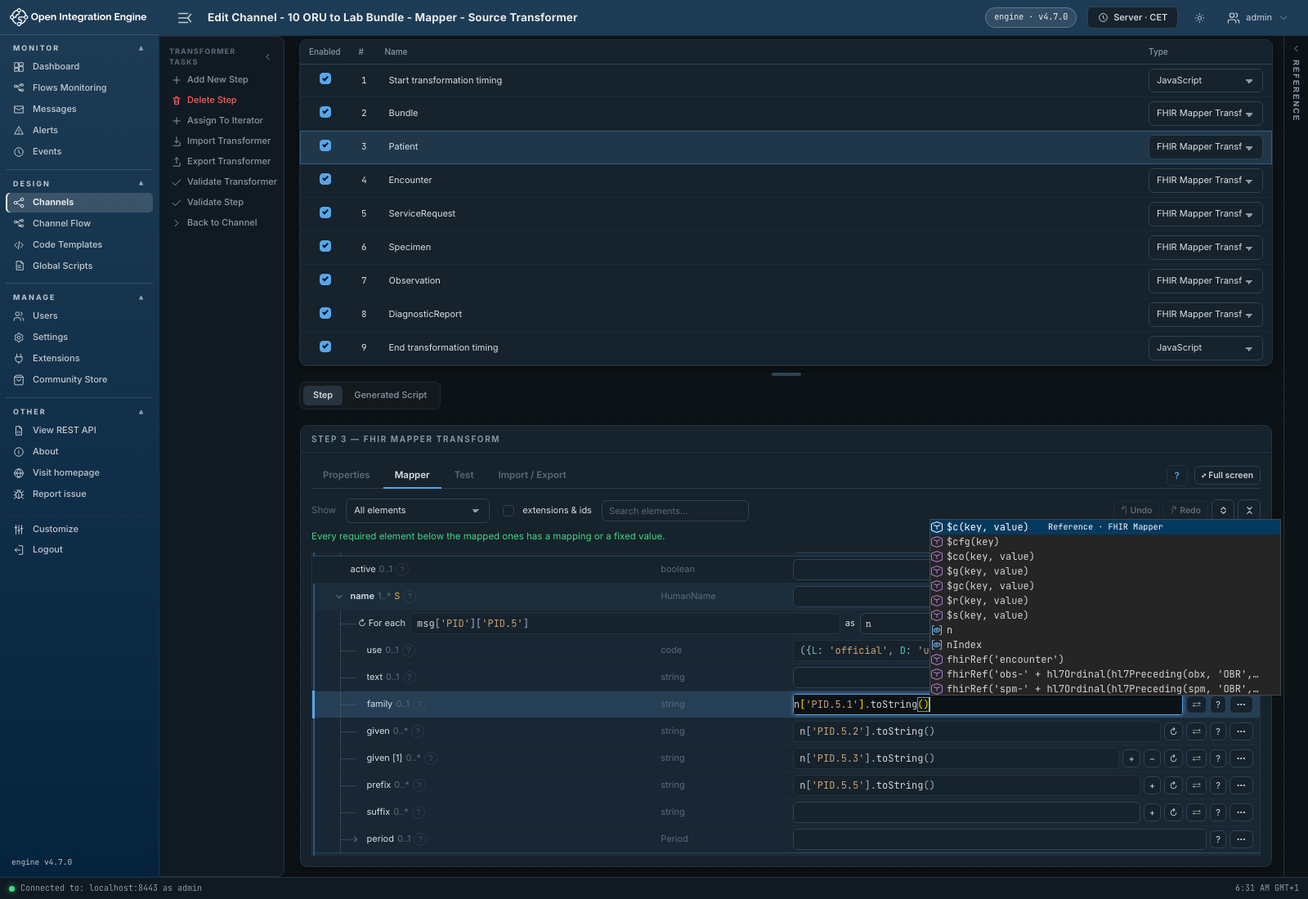
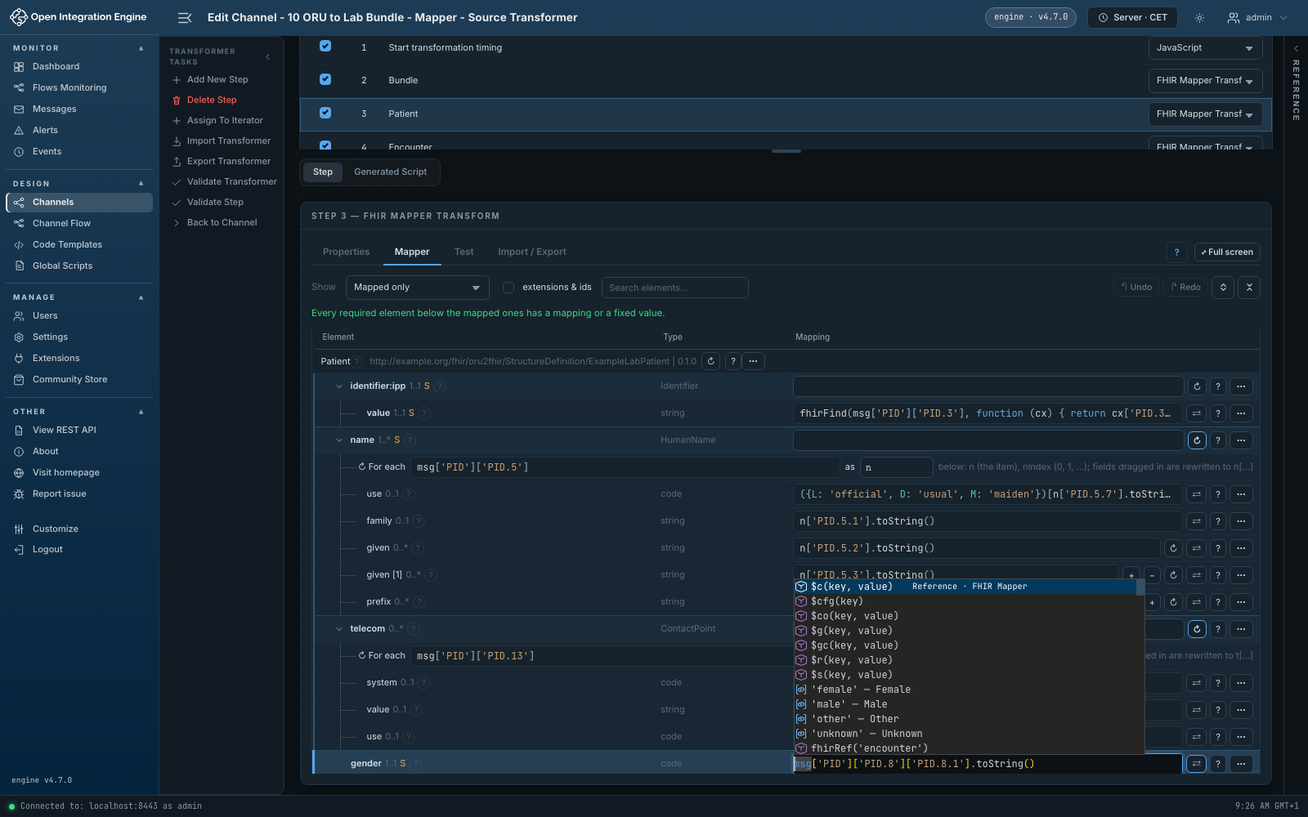
Make FML editor responsive and automate documentation screenshots

Changed region(s): [[0.0, 0.0, 1.0, 0.992], [0.0, 0.93, 0.1562, 0.992], [0.5, 0.527, 0.5312, 0.558]]

diff --git a/webadmin/web/plugin.js b/webadmin/web/plugin.js
@@ -1,4 +1,4 @@
-// OIE FHIR Mapper 0.6.0 · MPL-2.0 · generated from webadmin/src by build.mjs: do not edit
+// OIE FHIR Mapper 0.3.0 · MPL-2.0 · generated from webadmin/src by build.mjs: do not edit
 
 // src/i18n/locales/en.js
 var en_default = {
@@ -1883,7 +1883,7 @@ var editor_default = `/* SPDX-License-Identifier: MPL-2.0
 var mapper_transform_default = '/* SPDX-License-Identifier: MPL-2.0 */\n\n.fhir-mapper-transform { container-type: inline-size; min-width: 0; }\n.fhir-mapper-transform .mapper-settings { display: grid; grid-template-columns: repeat(2, minmax(0, 1fr)); gap: 12px 20px; align-items: start; }\n.fhir-mapper-transform .mapper-settings > *, .fhir-mapper-transform .field { min-width: 0; }\n.fhir-mapper-transform .mapper-settings .field { margin-bottom: 0; }\n.fhir-mapper-transform .mapper-wide { grid-column: 1 / -1; }\n.fhir-mapper-transform .mapper-actions { display: flex; flex-wrap: wrap; align-items: center; gap: 6px; }\n.fhir-mapper-transform .mapper-actions input[type=text] { flex: 1 1 240px; min-width: 0; width: auto; }\n.fhir-mapper-transform .mapper-actions select { flex: none; width: auto; }\n.fhir-mapper-transform .mapper-actions button { flex: none; white-space: nowrap; }\n.fhir-mapper-transform .mapper-checks { display: flex; flex-wrap: wrap; gap: 10px 20px; }\n.fhir-mapper-transform .check { white-space: nowrap; }\n.fhir-mapper-transform .mapper-toolbar { display: flex; flex-wrap: wrap; align-items: center; gap: 8px 12px; margin-bottom: 8px; }\n.fhir-mapper-transform .mapper-toolbar select { width: auto; max-width: 100%; }\n.fhir-mapper-transform .mapper-toolbar .hint { flex: 1 1 280px; }\n.fhir-mapper-transform .mapper-toolbar-right { display: inline-flex; align-items: center; gap: 4px; margin-left: auto; }\n.fhir-mapper-transform .mapper-icon-btn { display: inline-flex; align-items: center; justify-content: center; width: 28px; height: 28px; min-height: 28px; padding: 0; border-radius: 6px; }\n.fhir-mapper-transform .mapper-expression { display: inline-flex; width: 100%; min-width: 0; }\n.fhir-mapper-transform .mapper-functions { position: fixed; inset: auto; margin: 0; padding: 4px; border: 1px solid #94a3b8; border-radius: 6px; background: var(--bg, white); color: var(--text, #1e293b); box-shadow: 0 4px 16px #0003; overflow: auto; box-sizing: border-box; }\n.fhir-mapper-transform .mapper-functions [role=option] { padding: 6px 8px; cursor: pointer; border-radius: 4px; font-size: 12px; white-space: normal; }\n.fhir-mapper-transform .mapper-functions [aria-selected=true] { background: color-mix(in srgb, var(--accent, #2563eb) 18%, var(--bg2, white)); color: var(--text, #1e293b); }\n.fhir-mapper-transform .mapper-functions code { display: block; overflow-wrap: anywhere; }\n.fhir-mapper-transform table.mapper-tree td { padding: 3px 8px; }\n.fhir-mapper-transform .mapper-tree input:not([type=checkbox]), .fhir-mapper-transform .mapper-tree select { box-sizing: border-box; height: 26px; min-height: 26px; padding: 2px 6px; line-height: 20px; }\n.fhir-mapper-transform .mapper-tree .mapper-expression { padding: 0; min-height: 0; vertical-align: middle; }\n.fhir-mapper-transform .mapper-tree .btn { height: 22px; min-height: 22px; line-height: 18px; font-size: 11px; }\n.fhir-mapper-transform .mapper-tree .mapper-toggle { display: inline-flex; align-items: center; justify-content: center; flex: none; width: 20px; height: 20px; min-height: 0; padding: 0; margin: 0; border: 0; border-radius: 4px; background: transparent; color: var(--text-faint, #64748b); cursor: pointer; }\n.fhir-mapper-transform .mapper-tree .mapper-toggle:hover, .fhir-mapper-transform .mapper-tree .mapper-toggle:focus-visible { background: color-mix(in srgb, var(--accent, #2563eb) 14%, transparent); color: var(--text, #1e293b); }\n.fhir-mapper-transform .mapper-tree .mapper-toggle svg { transition: transform 0.12s ease; }\n.fhir-mapper-transform .mapper-tree .mapper-toggle[aria-expanded="true"] svg { transform: rotate(90deg); }\n.fhir-mapper-transform .mapper-help { display: inline-flex; align-items: center; justify-content: center; box-sizing: border-box; flex: 0 0 16px; width: 16px; height: 16px; min-height: 0; padding: 0; margin: 0; border: 1px solid color-mix(in srgb, currentColor 40%, transparent); border-radius: 50%; background: transparent; color: var(--text-faint, #64748b); font-size: 10px; line-height: 1; text-decoration: none; opacity: 0.65; cursor: pointer; }\n.fhir-mapper-transform .mapper-help:hover, .fhir-mapper-transform .mapper-help:focus-visible { opacity: 1; color: var(--accent, #2563eb); border-color: currentColor; background: transparent; }\n.fhir-mapper-transform .mapper-help:focus-visible { outline: 2px solid var(--accent, #2563eb); outline-offset: 2px; }\n.fhir-mapper-transform .mapper-tree tbody > tr > td:first-child { position: relative; border-left: 2px solid transparent; }\n.fhir-mapper-transform .mapper-tree .mapper-branch-open > tr > td { background: color-mix(in srgb, var(--accent, #2563eb) 4%, var(--bg2, white)); }\n.fhir-mapper-transform .mapper-tree .mapper-branch-open > tr > td:first-child { border-left-color: color-mix(in srgb, var(--accent, #2563eb) 40%, transparent); }\n.fhir-mapper-transform .mapper-tree .mapper-branch-open > tr:first-child > td { border-top: 1px solid color-mix(in srgb, var(--accent, #2563eb) 25%, transparent); background: color-mix(in srgb, var(--accent, #2563eb) 8%, var(--bg2, white)); }\n.fhir-mapper-transform .mapper-tree .mapper-branch-open > tr:last-child > td { border-bottom: 1px solid color-mix(in srgb, var(--accent, #2563eb) 25%, transparent); }\n.fhir-mapper-transform .mapper-node-open .mapper-node-label { font-weight: 600; }\n.fhir-mapper-transform .mapper-tree tr.mapper-node-disabled > td { opacity: 0.55; }\n.fhir-mapper-transform .mapper-tree tr.mapper-node-disabled .mapper-node-label,\n.fhir-mapper-transform .mapper-tree tr.mapper-node-disabled .mapper-expression-view { text-decoration: line-through; }\n.fhir-mapper-transform .mapper-tree tbody > tr:hover > td,\n.fhir-mapper-transform .mapper-tree .mapper-branch-open > tr:hover > td,\n.fhir-mapper-transform .mapper-tree tr:focus-within > td,\n.fhir-mapper-transform .mapper-tree .mapper-branch-open tr:focus-within > td { background: color-mix(in srgb, var(--accent, #2563eb) 14%, var(--bg2, white)); }\n.fhir-mapper-transform .mapper-tree tbody > tr.mapper-node-selected > td,\n.fhir-mapper-transform .mapper-tree .mapper-branch-open > tr.mapper-node-selected > td { background: color-mix(in srgb, var(--accent, #2563eb) 22%, var(--bg2, white)); }\n.fhir-mapper-transform .mapper-tree tbody > tr.mapper-node-selected > td:first-child,\n.fhir-mapper-transform .mapper-tree .mapper-branch-open > tr.mapper-node-selected > td:first-child { border-left: 3px solid var(--accent, #2563eb); }\n.fhir-mapper-transform .mapper-tree-guides { position: absolute; inset: 0; pointer-events: none; overflow: hidden; }\n.fhir-mapper-transform .mapper-tree-guides i { position: absolute; top: -1px; bottom: -1px; border-left: 1px solid color-mix(in srgb, var(--text-faint, #64748b) 45%, transparent); }\n.fhir-mapper-transform .mapper-tree-guides b { position: absolute; top: 50%; width: 20px; border-top: 1px solid color-mix(in srgb, var(--text-faint, #64748b) 45%, transparent); }\n.fhir-mapper-transform .bundle-routing { padding: 14px; border: 1px solid color-mix(in srgb, var(--accent, #2563eb) 40%, var(--line, #cbd5e1)); border-radius: 8px; background: color-mix(in srgb, var(--accent, #2563eb) 7%, var(--bg2, #fff)); }\n.fhir-mapper-transform .bundle-routing-title { margin-bottom: 4px; font-weight: 600; }\n.fhir-mapper-transform .bundle-target { margin-top: 10px; padding: 12px; border: 1px solid color-mix(in srgb, var(--accent, #2563eb) 30%, var(--line, #cbd5e1)); border-radius: 6px; background: var(--bg2, #fff); }\n.fhir-mapper-transform .bundle-choice { display: flex; align-items: center; gap: 8px; margin-bottom: 4px; text-transform: none; letter-spacing: normal; font-weight: 600; }\n.fhir-mapper-transform .bundle-choice input[type=checkbox] { width: 16px; height: 16px; margin: 0; flex: none; }\n.fhir-mapper-transform .bundle-request { display: grid; grid-template-columns: 110px minmax(0, 1fr); gap: 10px; margin-top: 10px; }\n.fhir-mapper-transform .bundle-target .field { margin-top: 8px; }\n.fhir-mapper-transform .mapper-tabs { display: flex; gap: 2px; margin-bottom: 12px; border-bottom: 1px solid color-mix(in srgb, var(--text-faint, #64748b) 35%, transparent); }\n.fhir-mapper-transform .mapper-tabs [role=tab] { display: inline-flex; align-items: center; gap: 6px; padding: 6px 14px; margin-bottom: -1px; border: 0; border-bottom: 2px solid transparent; background: none; color: var(--text-faint, #64748b); font: inherit; font-weight: 600; cursor: pointer; }\n.fhir-mapper-transform .mapper-tabs [role=tab]:hover { color: var(--text, #1e293b); }\n.fhir-mapper-transform .mapper-tabs [role=tab][aria-selected=true] { color: var(--text, #1e293b); border-bottom-color: var(--accent, #2563eb); }\n.fhir-mapper-transform .mapper-tabs [role=tab]:focus-visible { outline: 2px solid var(--accent, #2563eb); outline-offset: -2px; }\n.fhir-mapper-transform .mapper-tab-badge { min-width: 16px; padding: 0 5px; border-radius: 8px; background: #b91c1c; color: white; font-size: 11px; line-height: 16px; text-align: center; }\n.fhir-mapper-transform .mapper-tab-panel > details:first-child, .fhir-mapper-transform .mapper-tab-panel > .mapper-settings + details { margin-top: 14px; }\n.fhir-mapper-transform.mapper-layout { display: flex; flex-direction: column; height: 100%; min-height: 0; box-sizing: border-box; overflow: hidden; }\n.fhir-mapper-transform.mapper-layout.mapper-fullscreen { overflow: hidden; }\n.fhir-mapper-transform.mapper-layout > :not([role=tabpanel]) { flex: none; }\n.fhir-mapper-transform.mapper-layout > [role=tabpanel] { flex: 1; min-height: 0; overflow: auto; overscroll-behavior: contain; }\n.fhir-mapper-transform.mapper-testing-layout > [role=tabpanel],\n.fhir-mapper-transform.mapper-mapping-layout > [role=tabpanel] { overflow: hidden; }\n.fhir-mapper-transform .mapper-panel { display: flex; flex-direction: column; height: 100%; min-height: 0; }\n.fhir-mapper-transform .mapper-panel > :not(.mapper-workspace) { flex: none; }\n.fhir-mapper-transform .mapper-panel > .mapper-workspace { flex: 1; min-height: 0; overflow: auto; overscroll-behavior: contain; margin-top: 8px; }\n.fhir-mapper-transform .mapper-status { margin-bottom: 4px; }\n.fhir-mapper-transform .mapper-test { display: flex; flex-direction: column; gap: 10px; height: 100%; min-height: 0; }\n.fhir-mapper-transform .mapper-test-actions { display: flex; align-items: center; gap: 8px; flex: none; border-bottom: 1px solid var(--line, #cbd5e1); }\n.fhir-mapper-transform .mapper-test-actions > button { flex: none; margin-bottom: 6px; }\n.fhir-mapper-transform .mapper-test-tabs { flex: 1; min-width: 0; flex-wrap: wrap; margin-bottom: -1px; border-bottom: 0; }\n.fhir-mapper-transform .mapper-test-tabs [role=tab] { padding: 8px 10px; }\n.fhir-mapper-transform .mapper-test-tabs [role=tab].mapper-error { color: var(--err, #b91c1c); }\n.fhir-mapper-transform .mapper-test-tabs [role=tab].mapper-issue-warning { color: var(--warn, #b45309); }\n.fhir-mapper-transform .mapper-test-status { flex: none; max-height: 25%; overflow: auto; }\n.fhir-mapper-transform .mapper-test-status:empty { display: none; }\n.fhir-mapper-transform .mapper-test-panel { display: flex; flex-direction: column; flex: 1; gap: 8px; min-height: 0; }\n.fhir-mapper-transform .mapper-test-panel[hidden] { display: none; }\n.fhir-mapper-transform .mapper-test-validation,\n.fhir-mapper-transform .mapper-test-trace { overflow: auto; }\n.fhir-mapper-transform .mapper-sample-controls { display: flex; align-items: center; flex-wrap: wrap; gap: 6px 10px; flex: none; }\n.fhir-mapper-transform .mapper-sample-controls label { margin: 0; font-size: 13px; display: inline-flex; align-items: center; gap: 4px; }\n.fhir-mapper-transform .mapper-sample-controls select { width: auto; flex: none; max-width: 260px; }\n.fhir-mapper-transform .mapper-test-output,\n.fhir-mapper-transform .mapper-test-script { display: flex; flex-direction: column; flex: 1; min-height: 0; gap: 6px; }\n.fhir-mapper-transform .mapper-test-diagnostics { flex: none; max-height: 40%; overflow: auto; }\n.fhir-mapper-transform .mapper-test-diagnostics:empty { display: none; }\n.fhir-mapper-transform .mapper-test .fm-code-box { flex: 1; min-height: 0; }\n.fhir-mapper-transform .mapper-error { color: var(--err, #b91c1c); overflow-wrap: anywhere; }\n.fhir-mapper-transform .mapper-issue-warning { color: var(--warn, #b45309); }\n.fhir-mapper-transform .mapper-ok { color: var(--ok, #15803d); }\n.fhir-mapper-transform .mapper-properties { display: flex; flex-direction: column; gap: 16px; }\n.fhir-mapper-transform .mapper-context-section { padding: 14px 16px; border: 1px solid var(--line, #cbd5e1); border-radius: 8px; background: var(--bg2, #fff); }\n.fhir-mapper-transform .mapper-context-details > .fhir-context-fields { margin-top: 12px; }\n.fhir-mapper-transform .mapper-context-details > summary { cursor: pointer; font-size: 13px; font-weight: 600; }\n.fhir-mapper-transform .mapper-context-summary { margin: 6px 0 10px; font-size: 13px; color: var(--text-faint, #64748b); }\n.fhir-mapper-transform .mapper-property-section { padding: 0 0 14px; border-bottom: 1px solid var(--line, #cbd5e1); }\n.fhir-mapper-transform .mapper-property-section:last-child { border-bottom: 0; padding-bottom: 0; }\n.fhir-mapper-transform .mapper-property-section h3 { display: flex; align-items: center; gap: 8px; margin: 0 0 12px; font-size: 14px; }\n.fhir-mapper-transform .mapper-flow-number { display: inline-flex; align-items: center; justify-content: center; width: 22px; height: 22px; border-radius: 50%; background: var(--accent, #2563eb); color: white; font-size: 12px; }\n.fhir-mapper-transform .mapper-property-grid { display: grid; grid-template-columns: repeat(2, minmax(0, 1fr)); gap: 12px 20px; align-items: start; }\n.fhir-mapper-transform .mapper-property-grid > *, .fhir-mapper-transform .field { min-width: 0; }\n.fhir-mapper-transform .mapper-tools { display: flex; flex-direction: column; gap: 12px; }\n.fhir-mapper-transform .mapper-tools-card { padding: 14px 16px; border: 1px solid var(--line, #cbd5e1); border-radius: 8px; background: var(--bg2, #fff); }\n.fhir-mapper-transform .mapper-tools-card h3,\n.fhir-mapper-transform .mapper-tools-card > summary { margin: 0 0 6px; font-size: 14px; font-weight: 600; cursor: pointer; }\n.fhir-mapper-transform .mapper-tools-card h3 { cursor: default; }\n.fhir-mapper-transform .mapper-tools-hint { margin: 0 0 10px; font-size: 12px; color: var(--text-faint, #64748b); }\n.fhir-mapper-transform .mapper-tools-groups { display: flex; flex-wrap: wrap; gap: 12px 24px; align-items: flex-start; }\n.fhir-mapper-transform .mapper-tools-group { display: flex; flex-direction: column; gap: 6px; }\n.fhir-mapper-transform .mapper-tools-group-label { font-size: 11px; font-weight: 600; text-transform: uppercase; letter-spacing: 0.04em; color: var(--text-faint, #64748b); }\n.fhir-mapper-transform .mapper-tools-json-body { display: flex; flex-direction: column; gap: 8px; margin-top: 6px; }\n.fhir-mapper-transform .mapper-tools-json-body .mapper-tools-hint { margin: 0; }\n@container (max-width: 640px) {\n  .fhir-mapper-transform .mapper-settings,\n  .fhir-mapper-transform .mapper-property-grid { grid-template-columns: minmax(0, 1fr); }\n}\n';
 
 // src/styles/fml.css
-var fml_default = "/* SPDX-License-Identifier: MPL-2.0 */\n\n.fhir-fml { container-type: inline-size; min-width: 0; }\n.fhir-fml .fml-property-grid > *, .fhir-fml .field { min-width: 0; }\n.fhir-fml .fml-wide { grid-column: 1 / -1; }\n.fhir-fml .fml-row { display: flex; flex-wrap: wrap; align-items: center; gap: 6px; }\n.fhir-fml .fml-row > select, .fhir-fml .fml-row > input[type=text] { flex: 1 1 240px; min-width: 0; width: auto; }\n.fhir-fml .fml-row > button { flex: none; white-space: nowrap; }\n.fhir-fml .fml-tabs { display: flex; gap: 2px; margin-bottom: 12px; border-bottom: 1px solid color-mix(in srgb, var(--text-faint, #64748b) 35%, transparent); }\n.fhir-fml .fml-tabs [role=tab] { padding: 6px 14px; margin-bottom: -1px; border: 0; border-bottom: 2px solid transparent; background: none; color: var(--text-faint, #64748b); font: inherit; font-weight: 600; cursor: pointer; }\n.fhir-fml .fml-tabs [role=tab]:hover { color: var(--text, #1e293b); }\n.fhir-fml .fml-tabs [role=tab][aria-selected=true] { color: var(--text, #1e293b); border-bottom-color: var(--accent, #2563eb); }\n.fhir-fml pre.fml-json { max-height: 420px; overflow: auto; padding: 8px; border: 1px solid var(--border, #cbd5e1); border-radius: 4px; font-size: 12px; white-space: pre; }\n.fhir-fml .fml-error { color: var(--err, #b91c1c); overflow-wrap: anywhere; }\n.fhir-fml .fml-issue-warning { color: var(--warn, #b45309); }\n.fhir-fml .fml-ok { color: var(--ok, #15803d); }\n.fhir-fml.fml-layout { display: flex; flex-direction: column; height: 100%; min-height: 0; box-sizing: border-box; overflow: hidden; }\n.fhir-fml.fml-layout.mapper-fullscreen { overflow: hidden; }\n.fhir-fml.fml-layout > .fml-tabs { flex: none; }\n.fhir-fml.fml-layout > [role=tabpanel] { flex: 1; min-height: 0; overflow: auto; overscroll-behavior: contain; }\n.fhir-fml.fml-testing-layout > [role=tabpanel] { overflow: hidden; }\n.fhir-fml .fml-test { display: flex; flex-direction: column; gap: 10px; height: 100%; min-height: 0; }\n.fhir-fml .fml-test-actions { display: flex; align-items: center; gap: 12px; flex: none; border-bottom: 1px solid var(--border, #cbd5e1); }\n.fhir-fml .fml-test-actions > button { flex: none; margin-bottom: 6px; }\n.fhir-fml .fml-test-tabs { flex: 1; min-width: 0; flex-wrap: wrap; margin-bottom: -1px; border-bottom: 0; }\n.fhir-fml .fml-test-tabs [role=tab] { padding: 8px 10px; }\n.fhir-fml .fml-sample-controls { display: flex; align-items: center; flex-wrap: wrap; gap: 8px 12px; flex: none; }\n.fhir-fml .fml-sample-controls label { margin: 0; font-weight: 500; font-size: 13px; }\n.fhir-fml .fml-sample-controls select { flex: 0 1 260px; width: auto; min-width: 0; }\n.fhir-fml .fml-parser-badge { font-size: 12px; color: var(--text-faint, #64748b); }\n.fhir-fml .fml-format-sample { display: inline-flex; align-items: center; gap: 5px; white-space: nowrap; }\n.fhir-fml .fml-format-sample input { margin: 0; }\n.fhir-fml .fml-test-tabs [role=tab].fml-error { color: var(--err, #b91c1c); }\n.fhir-fml .fml-test-tabs [role=tab].fml-issue-warning { color: var(--warn, #b45309); }\n.fhir-fml .fml-test-status { flex: none; max-height: 25%; overflow: auto; }\n.fhir-fml .fml-test-status:empty { display: none; }\n.fhir-fml .fml-test-panel { display: flex; flex-direction: column; flex: 1; gap: 8px; min-height: 0; }\n.fhir-fml .fml-test-panel[hidden] { display: none; }\n.fhir-fml .fml-test-validation { overflow: auto; }\n.fhir-fml .fml-test .fm-code-box { flex: 1; min-height: 0; }\n\n.fhir-fml .fml-properties { display: flex; flex-direction: column; gap: 16px; }\n.fhir-fml .fml-context-section { padding: 14px 16px; border: 1px solid var(--border, #cbd5e1); border-radius: 8px; background: var(--bg2, #fff); }\n.fhir-fml .fml-context-details > .fhir-context-fields { margin-top: 12px; }\n.fhir-fml .fml-context-details > summary, .fhir-context-terminology > summary { cursor: pointer; font-size: 13px; font-weight: 600; }\n.fhir-fml .fml-context-summary { margin: 6px 0 10px; font-size: 13px; color: var(--text-faint, #64748b); }\n.fhir-fml .fml-property-section { padding: 0 0 14px; border-bottom: 1px solid var(--border, #cbd5e1); }\n.fhir-fml .fml-property-section h3 { display: flex; align-items: center; gap: 8px; margin: 0 0 12px; font-size: 14px; }\n.fhir-fml .fml-flow-number { display: inline-flex; align-items: center; justify-content: center; width: 22px; height: 22px; border-radius: 50%; background: var(--accent, #2563eb); color: white; font-size: 12px; }\n.fhir-fml .fml-property-grid { display: grid; grid-template-columns: repeat(2, minmax(0, 1fr)); gap: 12px 20px; }\n.fhir-fml .fml-map-kind { font-size: 13px; font-weight: 600; }\n@container (max-width: 640px) { .fhir-fml .fml-property-grid { grid-template-columns: minmax(0, 1fr); } }\n";
+var fml_default = "/* SPDX-License-Identifier: MPL-2.0 */\n\n.fhir-fml { container-type: inline-size; min-width: 0; }\n.fhir-fml .fml-property-grid > *, .fhir-fml .field { min-width: 0; }\n.fhir-fml .fml-wide { grid-column: 1 / -1; }\n.fhir-fml .fml-row { display: flex; flex-wrap: wrap; align-items: center; gap: 6px; }\n.fhir-fml .fml-row > select, .fhir-fml .fml-row > input[type=text] { flex: 1 1 240px; min-width: 0; width: auto; }\n.fhir-fml .fml-row > button { flex: none; white-space: nowrap; }\n.fhir-fml .fml-tabs { display: flex; gap: 2px; margin-bottom: 12px; border-bottom: 1px solid color-mix(in srgb, var(--text-faint, #64748b) 35%, transparent); }\n.fhir-fml .fml-tabs [role=tab] { padding: 6px 14px; margin-bottom: -1px; border: 0; border-bottom: 2px solid transparent; background: none; color: var(--text-faint, #64748b); font: inherit; font-weight: 600; cursor: pointer; }\n.fhir-fml .fml-tabs [role=tab]:hover { color: var(--text, #1e293b); }\n.fhir-fml .fml-tabs [role=tab][aria-selected=true] { color: var(--text, #1e293b); border-bottom-color: var(--accent, #2563eb); }\n.fhir-fml pre.fml-json { max-height: 420px; overflow: auto; padding: 8px; border: 1px solid var(--border, #cbd5e1); border-radius: 4px; font-size: 12px; white-space: pre; }\n.fhir-fml .fml-error { color: var(--err, #b91c1c); overflow-wrap: anywhere; }\n.fhir-fml .fml-issue-warning { color: var(--warn, #b45309); }\n.fhir-fml .fml-ok { color: var(--ok, #15803d); }\n.fhir-fml.fml-layout { display: flex; flex-direction: column; height: 100%; min-height: 0; box-sizing: border-box; overflow: hidden; }\n.fhir-fml.fml-layout.mapper-fullscreen { overflow: hidden; }\n.fhir-fml.fml-layout > .fml-tabs { flex: none; }\n.fhir-fml.fml-layout > [role=tabpanel] { flex: 1; min-height: 0; overflow: auto; overscroll-behavior: contain; }\n.fhir-fml.fml-testing-layout > [role=tabpanel] { overflow: hidden; }\n.fhir-fml .fml-map { display: flex; flex-direction: column; height: 100%; min-height: 0; }\n.fhir-fml .fml-map > .fml-row, .fhir-fml .fml-map > .fml-error { flex: none; }\n.fhir-fml .fml-map-editor { flex: 1; min-height: 0; min-width: 0; }\n.fhir-fml .fml-test { display: flex; flex-direction: column; gap: 10px; height: 100%; min-height: 0; }\n.fhir-fml .fml-test-actions { display: flex; align-items: center; gap: 12px; flex: none; border-bottom: 1px solid var(--border, #cbd5e1); }\n.fhir-fml .fml-test-actions > button { flex: none; margin-bottom: 6px; }\n.fhir-fml .fml-test-tabs { flex: 1; min-width: 0; flex-wrap: wrap; margin-bottom: -1px; border-bottom: 0; }\n.fhir-fml .fml-test-tabs [role=tab] { padding: 8px 10px; }\n.fhir-fml .fml-sample-controls { display: flex; align-items: center; flex-wrap: wrap; gap: 8px 12px; flex: none; }\n.fhir-fml .fml-sample-controls label { margin: 0; font-weight: 500; font-size: 13px; }\n.fhir-fml .fml-sample-controls select { flex: 0 1 260px; width: auto; min-width: 0; }\n.fhir-fml .fml-parser-badge { font-size: 12px; color: var(--text-faint, #64748b); }\n.fhir-fml .fml-format-sample { display: inline-flex; align-items: center; gap: 5px; white-space: nowrap; }\n.fhir-fml .fml-format-sample input { margin: 0; }\n.fhir-fml .fml-test-tabs [role=tab].fml-error { color: var(--err, #b91c1c); }\n.fhir-fml .fml-test-tabs [role=tab].fml-issue-warning { color: var(--warn, #b45309); }\n.fhir-fml .fml-test-status { flex: none; max-height: 25%; overflow: auto; }\n.fhir-fml .fml-test-status:empty { display: none; }\n.fhir-fml .fml-test-panel { display: flex; flex-direction: column; flex: 1; gap: 8px; min-height: 0; }\n.fhir-fml .fml-test-panel[hidden] { display: none; }\n.fhir-fml .fml-test-validation { overflow: auto; }\n.fhir-fml .fml-test .fm-code-box { flex: 1; min-height: 0; }\n\n.fhir-fml .fml-properties { display: flex; flex-direction: column; gap: 16px; }\n.fhir-fml .fml-context-section { padding: 14px 16px; border: 1px solid var(--border, #cbd5e1); border-radius: 8px; background: var(--bg2, #fff); }\n.fhir-fml .fml-context-details > .fhir-context-fields { margin-top: 12px; }\n.fhir-fml .fml-context-details > summary, .fhir-context-terminology > summary { cursor: pointer; font-size: 13px; font-weight: 600; }\n.fhir-fml .fml-context-summary { margin: 6px 0 10px; font-size: 13px; color: var(--text-faint, #64748b); }\n.fhir-fml .fml-property-section { padding: 0 0 14px; border-bottom: 1px solid var(--border, #cbd5e1); }\n.fhir-fml .fml-property-section h3 { display: flex; align-items: center; gap: 8px; margin: 0 0 12px; font-size: 14px; }\n.fhir-fml .fml-flow-number { display: inline-flex; align-items: center; justify-content: center; width: 22px; height: 22px; border-radius: 50%; background: var(--accent, #2563eb); color: white; font-size: 12px; }\n.fhir-fml .fml-property-grid { display: grid; grid-template-columns: repeat(2, minmax(0, 1fr)); gap: 12px 20px; }\n.fhir-fml .fml-map-kind { font-size: 13px; font-weight: 600; }\n@container (max-width: 640px) { .fhir-fml .fml-property-grid { grid-template-columns: minmax(0, 1fr); } }\n";
 
 // src/fhir/mapping-table.js
 var escapeHtml = (value) => String(value ?? "").replace(/[&<>"']/g, (char) => ({ "&": "&amp;", "<": "&lt;", ">": "&gt;", '"': "&quot;", "'": "&#39;" })[char]);
@@ -6024,11 +6024,12 @@ function FmlMapEditor({ value, onChange, problems, completionPaths }) {
       value,
       language: "fml",
       multiline: true,
-      minHeight: "360px",
+      minHeight: "100%",
       ariaLabel: "FML map",
       getItems: () => fmlCompletions(editor.current?.getValue() || latest.current.value, latest.current.completionPaths),
       onChange: (text) => latest.current.onChange(text)
     });
+    ed.el.style.height = "100%";
     editor.current = ed;
     host.current.appendChild(ed.el);
     return () => {
@@ -6244,7 +6245,7 @@ function FmlTransformEditor({ element, onChange, platform: platform2 }) {
   const inline = !!String(element.mapSource || "").trim();
   const mapPanel = h2(
     "div",
-    null,
+    { className: "fml-map" },
     h2(
       "div",
       { className: "fml-row", style: { marginBottom: "8px" } },

diff --git a/webadmin/test/e2e/dev-fml-editor.test.js b/webadmin/test/e2e/dev-fml-editor.test.js
@@ -66,3 +66,43 @@ test("Copy to inline map loads the selected FML with its imports, then runs the 
     assert.deepEqual(session.pluginErrors(), []);
   } finally { await session.close(); }
 });
+
+test("the FML map fills the available panel and resizes with the window and full screen", async () => {
+  const session = await signIn();
+  const page = session.page;
+  try {
+    await open(page);
+    const editor = page.locator(".fhir-fml");
+    await editor.getByRole("tab", { name: "Map", exact: true }).click();
+    const measure = async () => {
+      await page.waitForFunction(() => {
+        const code = window.monaco?.editor.getEditors().find(e => e.getDomNode()?.closest(".fml-map-editor"));
+        const box = document.querySelector(".fml-map-editor");
+        return box && code && Math.abs(code.getLayoutInfo().height - box.clientHeight) < 4;
+      });
+      return editor.evaluate(el => {
+        const panel = el.querySelector(":scope > [role=tabpanel]").getBoundingClientRect();
+        const box = el.querySelector(".fml-map-editor").getBoundingClientRect();
+        return { height: box.height, bottom: box.bottom, panelBottom: panel.bottom };
+      });
+    };
+    const check = size => {
+      assert.ok(size.height > 100, "The map must have usable editing space");
+      assert.ok(Math.abs(size.bottom - size.panelBottom) < 3, "The map must reach the panel bottom");
+    };
+    const normal = await measure();
+    check(normal);
+    await editor.getByRole("button", { name: /Full screen/ }).click();
+    await page.setViewportSize({ width: 1440, height: 1000 });
+    const tall = await measure();
+    check(tall);
+    await page.setViewportSize({ width: 1000, height: 520 });
+    const short = await measure();
+    check(short);
+    assert.ok(tall.height - short.height > 300, "Map height must follow the viewport height");
+    await page.setViewportSize({ width: 1440, height: 900 });
+    await page.keyboard.press("Escape");
+    check(await measure());
+    assert.deepEqual(session.pluginErrors(), []);
+  } finally { await session.close(); }
+});

diff --git a/webadmin/src/fml/editor.js b/webadmin/src/fml/editor.js
@@ -49,9 +49,10 @@ function FmlMapEditor({ value, onChange, problems, completionPaths }) {
   const latest = React.useRef({ onChange, completionPaths, value });
   latest.current = { onChange, completionPaths, value };
   React.useEffect(() => {
-    const ed = createExpressionEditor({ value, language: "fml", multiline: true, minHeight: "360px", ariaLabel: "FML map",
+    const ed = createExpressionEditor({ value, language: "fml", multiline: true, minHeight: "100%", ariaLabel: "FML map",
       getItems: () => fmlCompletions(editor.current?.getValue() || latest.current.value, latest.current.completionPaths),
       onChange: (text) => latest.current.onChange(text) });
+    ed.el.style.height = "100%";
     editor.current = ed;
     host.current.appendChild(ed.el);
     return () => { editor.current = null; ed.dispose(); };
@@ -247,7 +248,7 @@ function FmlTransformEditor({ element, onChange, platform }) {
     rerender();
   };
   const inline = !!String(element.mapSource || "").trim();
-  const mapPanel = h("div", null,
+  const mapPanel = h("div", { className: "fml-map" },
     h("div", { className: "fml-row", style: { marginBottom: "8px" } },
       h("button", { type: "button", className: "btn btn-sm", disabled: st.checking || !inline, onClick: checkMap }, st.checking ? tr("fml.checking") : tr("common.check")),
       !inline ? h("button", { type: "button", className: "btn btn-sm", onClick: () => { st.check = null; set("mapSource", FML_TEMPLATE); } }, tr("common.start_from_an_example")) : null,

diff --git a/webadmin/src/styles/fml.css b/webadmin/src/styles/fml.css
@@ -19,6 +19,9 @@
 .fhir-fml.fml-layout > .fml-tabs { flex: none; }
 .fhir-fml.fml-layout > [role=tabpanel] { flex: 1; min-height: 0; overflow: auto; overscroll-behavior: contain; }
 .fhir-fml.fml-testing-layout > [role=tabpanel] { overflow: hidden; }
+.fhir-fml .fml-map { display: flex; flex-direction: column; height: 100%; min-height: 0; }
+.fhir-fml .fml-map > .fml-row, .fhir-fml .fml-map > .fml-error { flex: none; }
+.fhir-fml .fml-map-editor { flex: 1; min-height: 0; min-width: 0; }
 .fhir-fml .fml-test { display: flex; flex-direction: column; gap: 10px; height: 100%; min-height: 0; }
 .fhir-fml .fml-test-actions { display: flex; align-items: center; gap: 12px; flex: none; border-bottom: 1px solid var(--border, #cbd5e1); }
 .fhir-fml .fml-test-actions > button { flex: none; margin-bottom: 6px; }

diff --git a/doc/fr/demo/Captures.md b/doc/fr/demo/Captures.md
@@ -1,0 +1,34 @@
+# Captures du README et du manuel
+
+[Documentation](../../README.md) · [Démo](Demo.md)
+
+Démarrer et initialiser la démo, puis lancer depuis la racine du dépôt :
+
+```sh
+npm --prefix webadmin run capture:docs
+```
+
+La commande met à jour les PNG utilisés par le README et le manuel dans
+`doc/fr/user-manual/`. Elle utilise les channels de la démo et leurs samples,
+sans enregistrer de modification des channels.
+
+Le cadrage est défini dans
+[capture-frame.mjs](../../../webadmin/test/e2e/capture-frame.mjs) :
+
+- fenêtre de 1 600 × 1 000 pixels, thème sombre et interface en anglais ;
+- panneau de référence à droite fermé ;
+- liste des steps ramenée à 140 pixels pour agrandir la zone du plugin ;
+- filtre **Mapped only** et branches mappées dépliées pour le mappeur ;
+- attente du chargement des polices et du redimensionnement de Monaco ;
+- animations désactivées pendant la capture.
+
+Pour ne reprendre qu’une partie des images :
+
+```sh
+npm --prefix webadmin run capture:docs -- --only=fml
+npm --prefix webadmin run capture:docs -- --only=mapper
+npm --prefix webadmin run capture:docs -- --only=settings
+```
+
+Les variables `DEMO_URL` et `OIE_DEMO_PASSWORD` permettent de changer l’URL
+et le mot de passe. Le compte utilisé est `admin`.

diff --git a/demo/term-server/README.md b/demo/term-server/README.md
@@ -71,23 +71,6 @@ remains exclusively in Hades for both destinations.
 The Test sample contains the XML received by the destination. The expected
 result is the [shared Patient](../oie-init/data/samples/patient.json).
 
-## How the plugin resolves translate
-
-The effective context supplies the configuration: a Settings context can provide
-a URL even when the step has no local value.
-
-1. FML looks for the canonical ConceptMap in its loaded context. If present, the
-   FML engine executes it locally without HTTP.
-2. If absent, the bridge calls HAPI's remote support through
-   `ConceptMap/$translate`, provided a server URL is configured.
-3. With neither a server nor a local ConceptMap, the transformation reports the
-   missing map.
-
-A local ConceptMap with no matching entry does not trigger a second remote
-attempt. FHIR output validation also uses the server as a fallback to local
-support. For single-code R4 FML calls, the bridge sends `code` and `system`
-parameters.
-
 ## HTTP logs
 
 Request logging is enabled through [logback.xml](logback.xml), mounted in the

diff --git a/doc/fr/user-manual/settings/README.md b/doc/fr/user-manual/settings/README.md
@@ -43,4 +43,4 @@ Toute étape **FHIR Mapper Transform** ou **FHIR FML Transform** qui sélectionn
 - **Langue du plugin** : en haut à droite de **Settings › FHIR Mapper**, le sélecteur **Language / Langue** propose *Browser language / Langue du navigateur* (défaut, avec repli sur l'anglais), *English* ou *Français*. Le changement s'applique immédiatement à tous les écrans du plugin dans le navigateur courant (`localStorage`).
 - **Thème clair / sombre** : le plugin s'adapte automatiquement au thème de Web Admin (accessible via la palette de commandes ou le bouton de thème de Web Admin).
 
-![Aperçu de l'éditeur en français et thème sombre](images/langue-fr.png)
+![Réglages du plugin en français et thème sombre](images/langue-fr.png)

diff --git a/AGENTS.md b/AGENTS.md
@@ -11,3 +11,11 @@ with the plugin are in the separate [agent manual](doc/agent-manual/README.md).
 - Preserve unrelated user changes, including untracked files.
 - Run at least `mvn clean package` and `node --test tools/tests/*.test.mjs`. When changing
   documentation, also run `node tools/check_doc_links.mjs`.
+
+## Documentation screenshots
+
+- Use `npm --prefix webadmin run capture:docs` for README and manual images.
+- Keep framing in `webadmin/test/e2e/capture-frame.mjs`: dark theme, reference
+  panel hidden, step-list split reduced, and Mapper filter set to Mapped only.
+- See `doc/fr/demo/Captures.md`; update the routine when a screenshot needs a
+  framing adjustment so the next capture reproduces it.

diff --git a/demo/fhir-volume/08-oru-patient-structuremap/README.md b/demo/fhir-volume/08-oru-patient-structuremap/README.md
@@ -7,7 +7,5 @@ published JSON map selected by its canonical URL. It uses OieMessage and produce
 a Patient conforming to ExampleLabPatient. The local context loads this
 directory and [shared/lab-r4](../shared/lab-r4/README.md).
 
-This example distinguishes a JSON StructureMap from a text FML file. **Copy to
-inline map** renders executable FML with the engine's `///` header. A message
-without a birth date checks the profile constraint. The historical export is
-`oru-r01-to-fhir-patient-fml-ig.xml`.
+**Copy to inline map** loads an editable FML version of the selected map.
+The samples include a message without a birth date to test profile validation.

diff --git a/demo/README.md b/demo/README.md
@@ -8,3 +8,7 @@ The [launch guide](../doc/fr/demo/Demo.md) describes Compose and prerequisites.
 The [Hades terminology server](term-server/README.md) is available on port 8500.
 The [channel catalog](oie-init/examples.json) lists each example's name, port,
 input and resources.
+
+Regenerate README and manual screenshots with
+`npm --prefix webadmin run capture:docs` from the repository root. See the
+[capture procedure](../doc/fr/demo/Captures.md).

diff --git a/demo/fhir-volume/README.md b/demo/fhir-volume/README.md
@@ -4,7 +4,7 @@
 
 This directory is mounted read-only in OIE at `/fhir-volume`. Numeric prefixes
 match the channels that introduce the resources. Shared files are grouped by
-domain; channels 01 and 03 use inline maps and need no server resource directory.
+domain. Channels 01 and 03 use inline maps.
 
 | Directory | Resources and purpose |
 |---|---|

diff --git a/doc/fr/demo/README.md b/doc/fr/demo/README.md
@@ -8,3 +8,5 @@
 
 Les procédures propres aux fonctions du plugin sont dans le
 [manuel utilisateur](../../fr/user-manual/README.md).
+
+- [Captures du README et du manuel](Captures.md) : commande et cadrage reproductibles.
